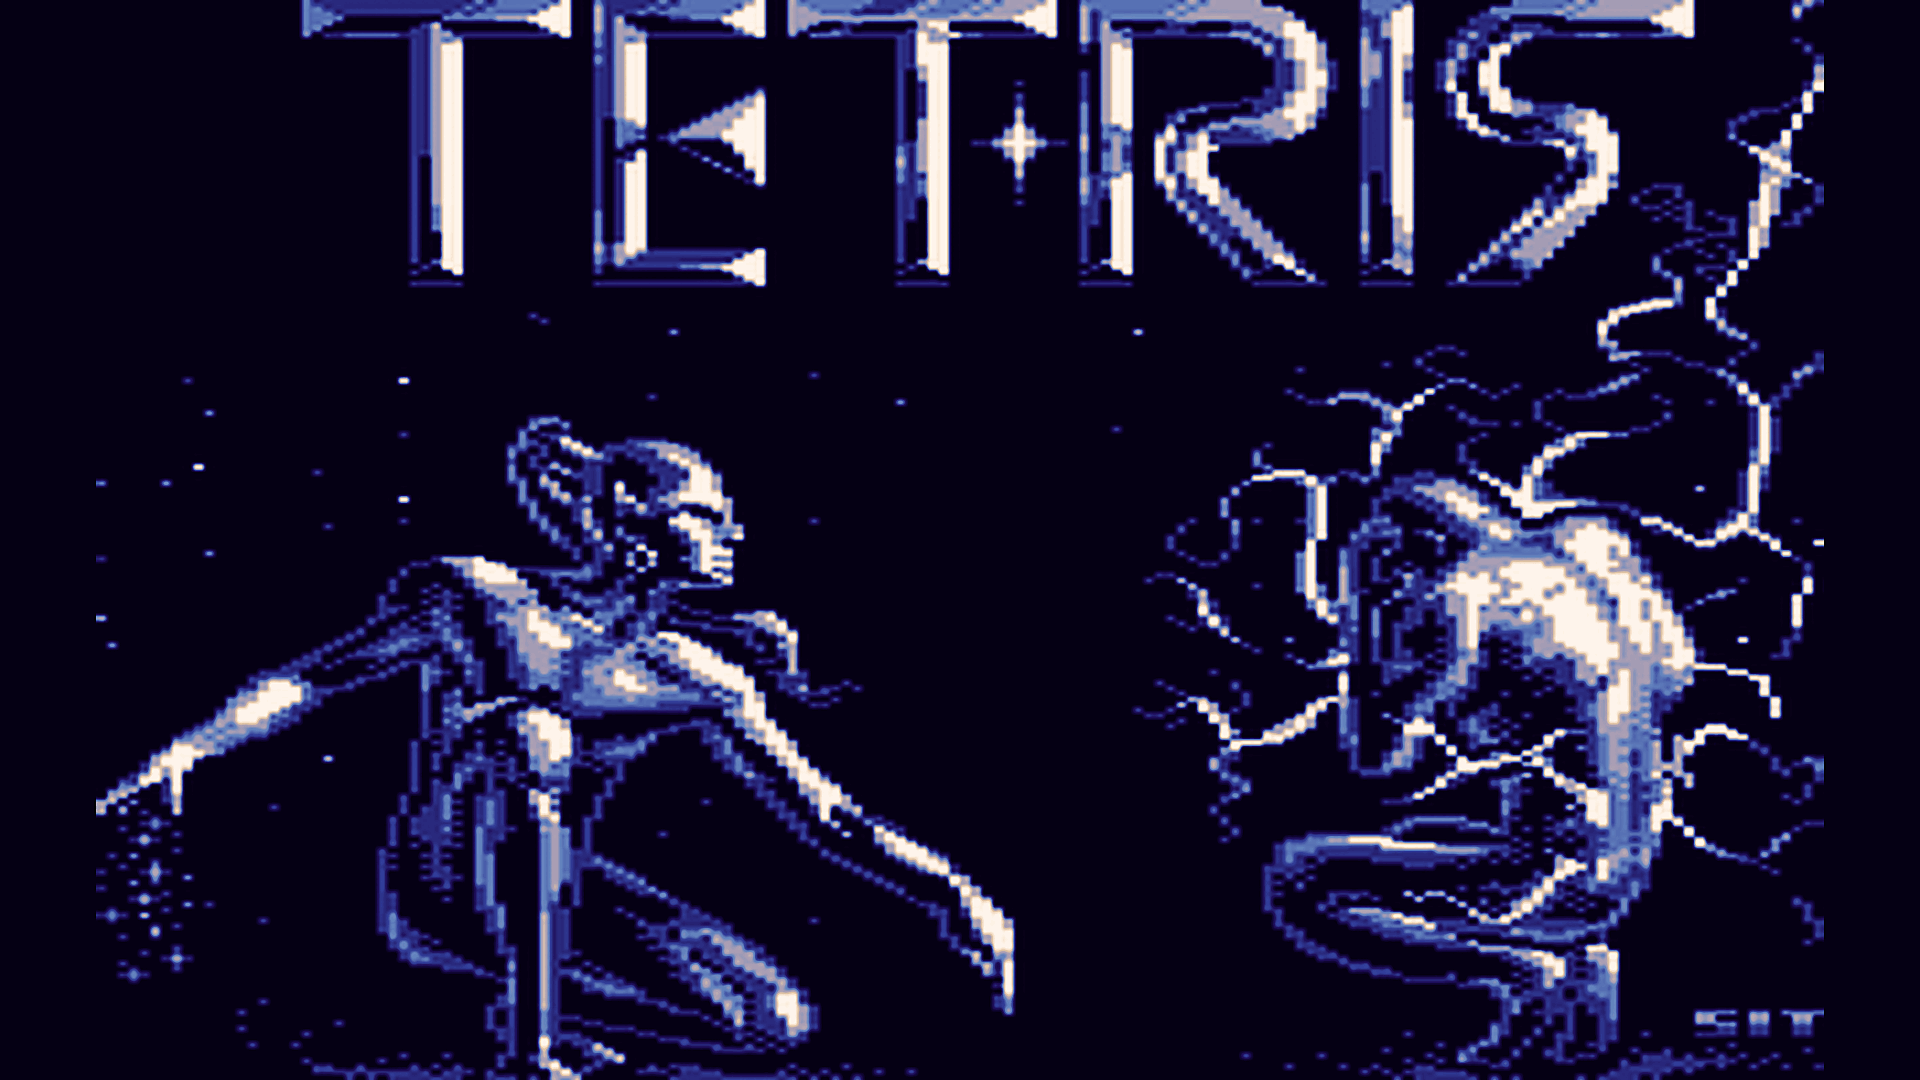
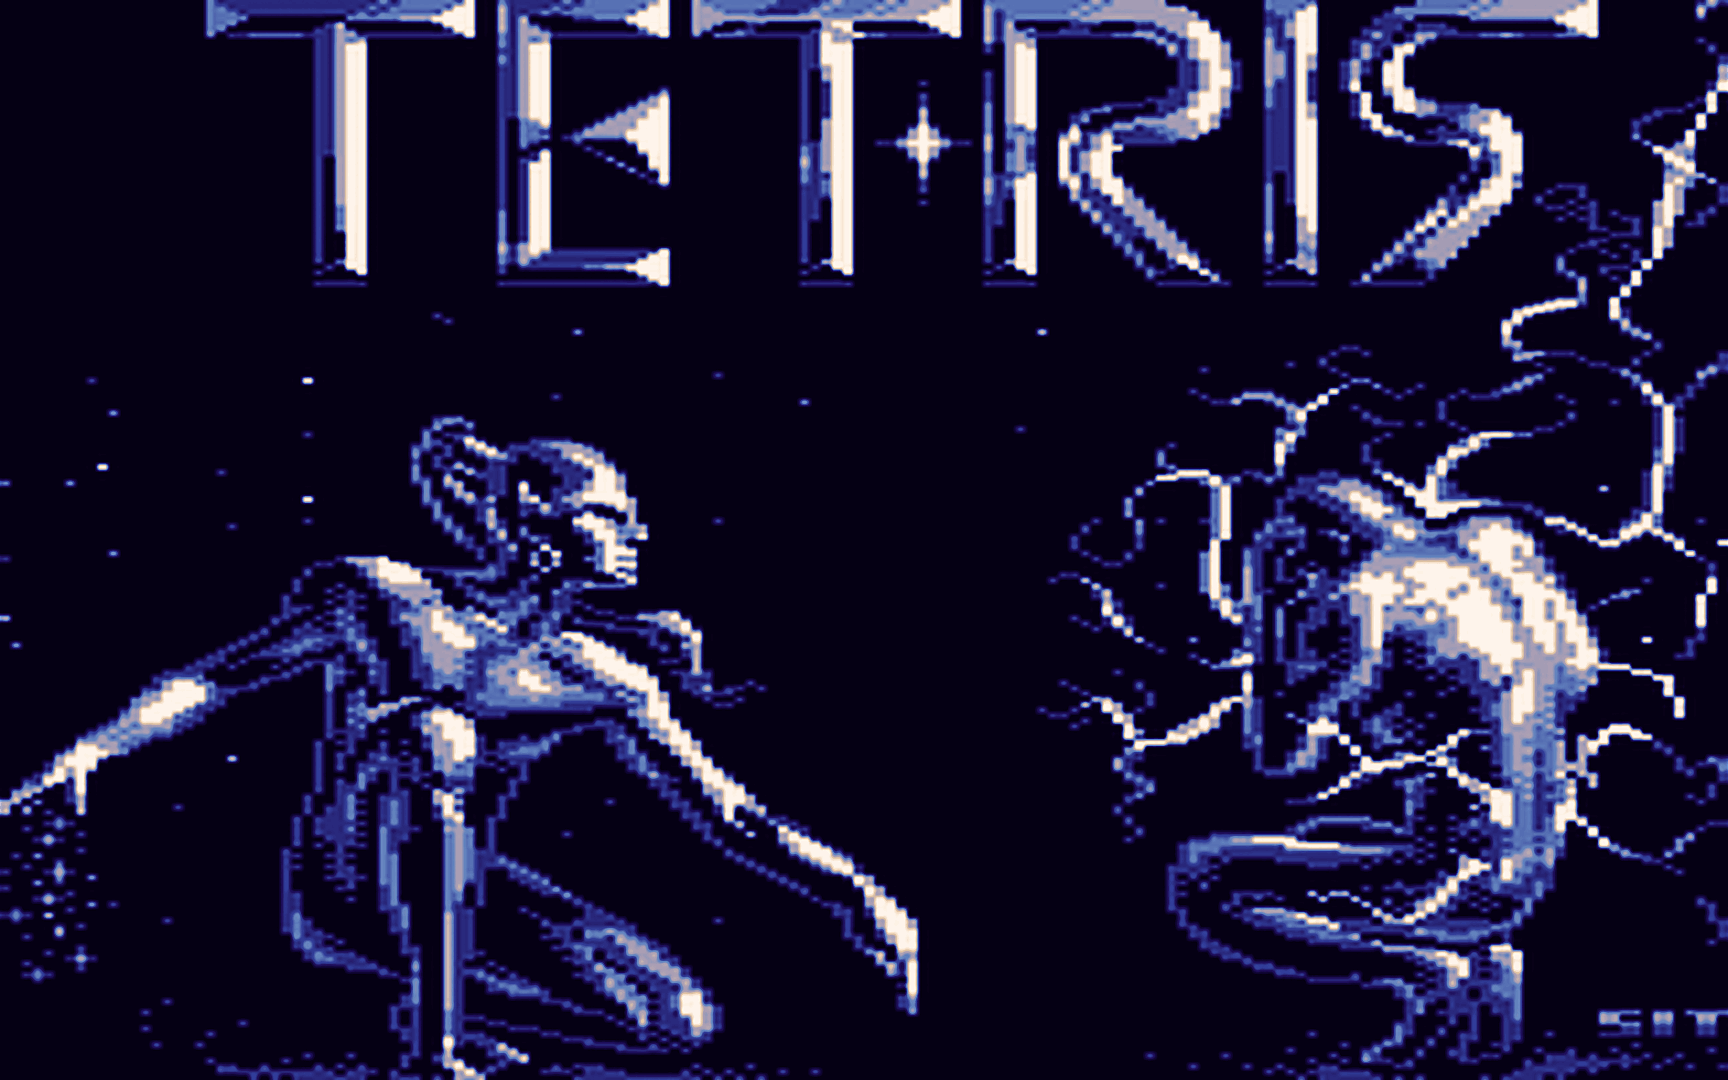
1

diff --git a/demo/tetris64/main.go b/demo/tetris64/main.go
@@ -77,12 +77,13 @@ type resLayout struct {
 	gameOverX, gameOverY int
 }
 
-// Score/lines/next positions measured from the original FHD screenshots
-// (assets/screenshots) and expressed per resolution (≈ C64-space coord * scale).
+// Positions are relative to the framebuffer (bgWin) origin, i.e. the cropped
+// background without the black side-border. X coords = original full-frame X
+// minus the per-resolution border (FHD 96, WQHD 128, UHD4K 192).
 var layouts = []resLayout{
-	{cell: 42, bx: 755, by: 99, nx: 1398, ny: 174, scoreX: 1475, scoreY: 70, linesX: 1545, linesY: 119, numRight: 1739, adv: 48, gameOverX: 720, gameOverY: 475},
-	{cell: 55, bx: 1010, by: 143, nx: 1864, ny: 232, scoreX: 2023, scoreY: 94, linesX: 2080, linesY: 159, numRight: 2375, adv: 64, gameOverX: 960, gameOverY: 633},
-	{cell: 83, bx: 1513, by: 212, nx: 2796, ny: 348, scoreX: 3034, scoreY: 141, linesX: 3125, linesY: 238, numRight: 3562, adv: 96, gameOverX: 1440, gameOverY: 950},
+	{cell: 42, bx: 659, by: 99, nx: 1302, ny: 174, scoreX: 1379, scoreY: 70, linesX: 1449, linesY: 119, numRight: 1643, adv: 48, gameOverX: 624, gameOverY: 475},
+	{cell: 55, bx: 882, by: 143, nx: 1736, ny: 232, scoreX: 1895, scoreY: 94, linesX: 1952, linesY: 159, numRight: 2247, adv: 64, gameOverX: 832, gameOverY: 633},
+	{cell: 83, bx: 1321, by: 212, nx: 2604, ny: 348, scoreX: 2842, scoreY: 141, linesX: 2933, linesY: 238, numRight: 3370, adv: 96, gameOverX: 1248, gameOverY: 950},
 }
 
 type TetrisWin struct {
@@ -113,6 +114,7 @@ type TetrisWin struct {
 	showGhost  bool
 	frameW     int
 	frameH     int
+	fbW        int // framebuffer (8:5 background) width; border = (frameW-fbW)/2
 }
 
 var sidProc *os.Process
@@ -211,6 +213,12 @@ func (w *TetrisWin) createWin(screenW, screenH int) {
 	w.showGhost = true
 	l := w.layout
 
+	// The framebuffer keeps the original C64 8:5 aspect (320x200, zoomed). The
+	// background art is cropped to it; the black left/right border is generated
+	// by the frame window's black background, not baked into the pixmap.
+	w.fbW = res.h * 8 / 5
+	border := (res.w - w.fbW) / 2
+
 	// digit colour matches the background's score text (sampled from the FHD art)
 	w.glyphTint = glyphTintColor()
 	w.bg = w.uploadBg(loadFrame(res.name))
@@ -238,15 +246,16 @@ func (w *TetrisWin) createWin(screenW, screenH int) {
 		BackPixel: 0,
 	})
 
-	// bg window: child of frame, exactly image size, centered
+	// bg window: child of frame, framebuffer-sized (8:5), centered so the
+	// frame's black background shows through as the left/right border.
 	bgXID := base.WINDOW(w.conn.NextResourceID())
 	_, err := w.conn.Send(&request.CreateWindowRequest{
 		Depth:     0,
 		Wid:       bgXID,
 		Parent:    w.frameWin.XID,
-		X:         0,
+		X:         base.INT16(border),
 		Y:         0,
-		Width:     base.CARD16(res.w),
+		Width:     base.CARD16(w.fbW),
 		Height:    base.CARD16(res.h),
 		Border:    0,
 		Class:     request.WindowClass_InputOutput,
@@ -625,9 +634,9 @@ func (w *TetrisWin) drawHelp() {
 	res := resolutions[w.resIdx]
 	fs := w.scale
 	bgDraw := tk_core.Drawable{Conn: w.tkConn, XID: w.bgWin}
-	hx := 40 * res.w / 320
+	hx := 40 * w.fbW / 320
 	hy := 24 * res.h / 200
-	hbw := res.w - 2*hx
+	hbw := w.fbW - 2*hx
 	hbh := res.h - 2*hy
 	bt := fs // border thickness (like the well border)
 	if bt < 2 {
@@ -645,12 +654,12 @@ func (w *TetrisWin) drawHelp() {
 		{X: base.INT16(hx + hbw - bt), Y: base.INT16(hy), Width: base.CARD16(bt), Height: base.CARD16(hbh)},
 	})
 
-	titleX := (res.w - 4*8*fs) / 2
+	titleX := (w.fbW - 4*8*fs) / 2
 	tetris_font.DrawString(bgDraw, w.gcText,
 		base.INT16(titleX), base.INT16(hy+12*res.h/200), fs, "HELP")
 	sepY := hy + 20*res.h/200
 	w.fillRects(w.bgWin, w.gcText, []base.Rectangle{
-		{X: base.INT16(hx + 16*res.w/320), Y: base.INT16(sepY), Width: base.CARD16(hbw - 32*res.w/320), Height: base.CARD16(bt)},
+		{X: base.INT16(hx + 16*w.fbW/320), Y: base.INT16(sepY), Width: base.CARD16(hbw - 32*w.fbW/320), Height: base.CARD16(bt)},
 	})
 
 	helpLines := []string{
@@ -668,10 +677,10 @@ func (w *TetrisWin) drawHelp() {
 	for i, line := range helpLines {
 		yy := hy + (30+i*10)*res.h/200
 		tetris_font.DrawString(bgDraw, w.gcText,
-			base.INT16(hx+16*res.w/320), base.INT16(yy), fs, line)
+			base.INT16(hx+16*w.fbW/320), base.INT16(yy), fs, line)
 	}
 
-	closeX := (res.w - 17*8*fs) / 2
+	closeX := (w.fbW - 17*8*fs) / 2
 	tetris_font.DrawString(bgDraw, w.gcText,
 		base.INT16(closeX), base.INT16(hy+138*res.h/200), fs, "PRESS F1 TO CLOSE")
 }
@@ -713,9 +722,9 @@ func (w *TetrisWin) HandleWindowEvent(ev events.Event) bool {
 				return true
 			}
 
-			// re-center bgWin
+			// re-center bgWin (framebuffer-sized; black frame is the border)
 			res := resolutions[w.resIdx]
-			bgX := (nw - res.w) / 2
+			bgX := (nw - w.fbW) / 2
 			bgY := (nh - res.h) / 2
 			if bgX < 0 {
 				bgX = 0

diff --git a/demo/tetris64/TODO.md b/demo/tetris64/TODO.md
@@ -9,3 +9,5 @@
 [x] add a help page - both within loader as well as game - should pause the game - use a border like the game area's border   -- F1 toggles in loader+game, pauses (gravity halts), hides board so it's not occluded, well-style thick border, updated keys
 [x] upload assets as server-side images and use those, if not already done yet   -- already done: frame/loader/glyphs uploaded as pixmaps (Image.Upload), reused via SetWindowBackgroundPixmap + CopyArea (no per-frame pixel uploads)
 [x] add little readme with help   -- demo/tetris64/README.md (run + controls + assets)
+[x] crop the VIC black border out of the bg images; let the bg window's black background generate it; pixmaps keep the original C64 8:5 aspect (zoomed)   -- cropped all frame/loader PNGs (color+mono, FHD/WQHD/UHD4K) to the 8:5 framebuffer (FHD 1728x1080, WQHD 2304x1440, 4K 3456x2160); bgWin is now framebuffer-sized & centered in the black frame window; layout X coords shifted by -border (96/128/192). verified FHD+WQHD
+[ ] add current resolution / theme to main/frame window title
